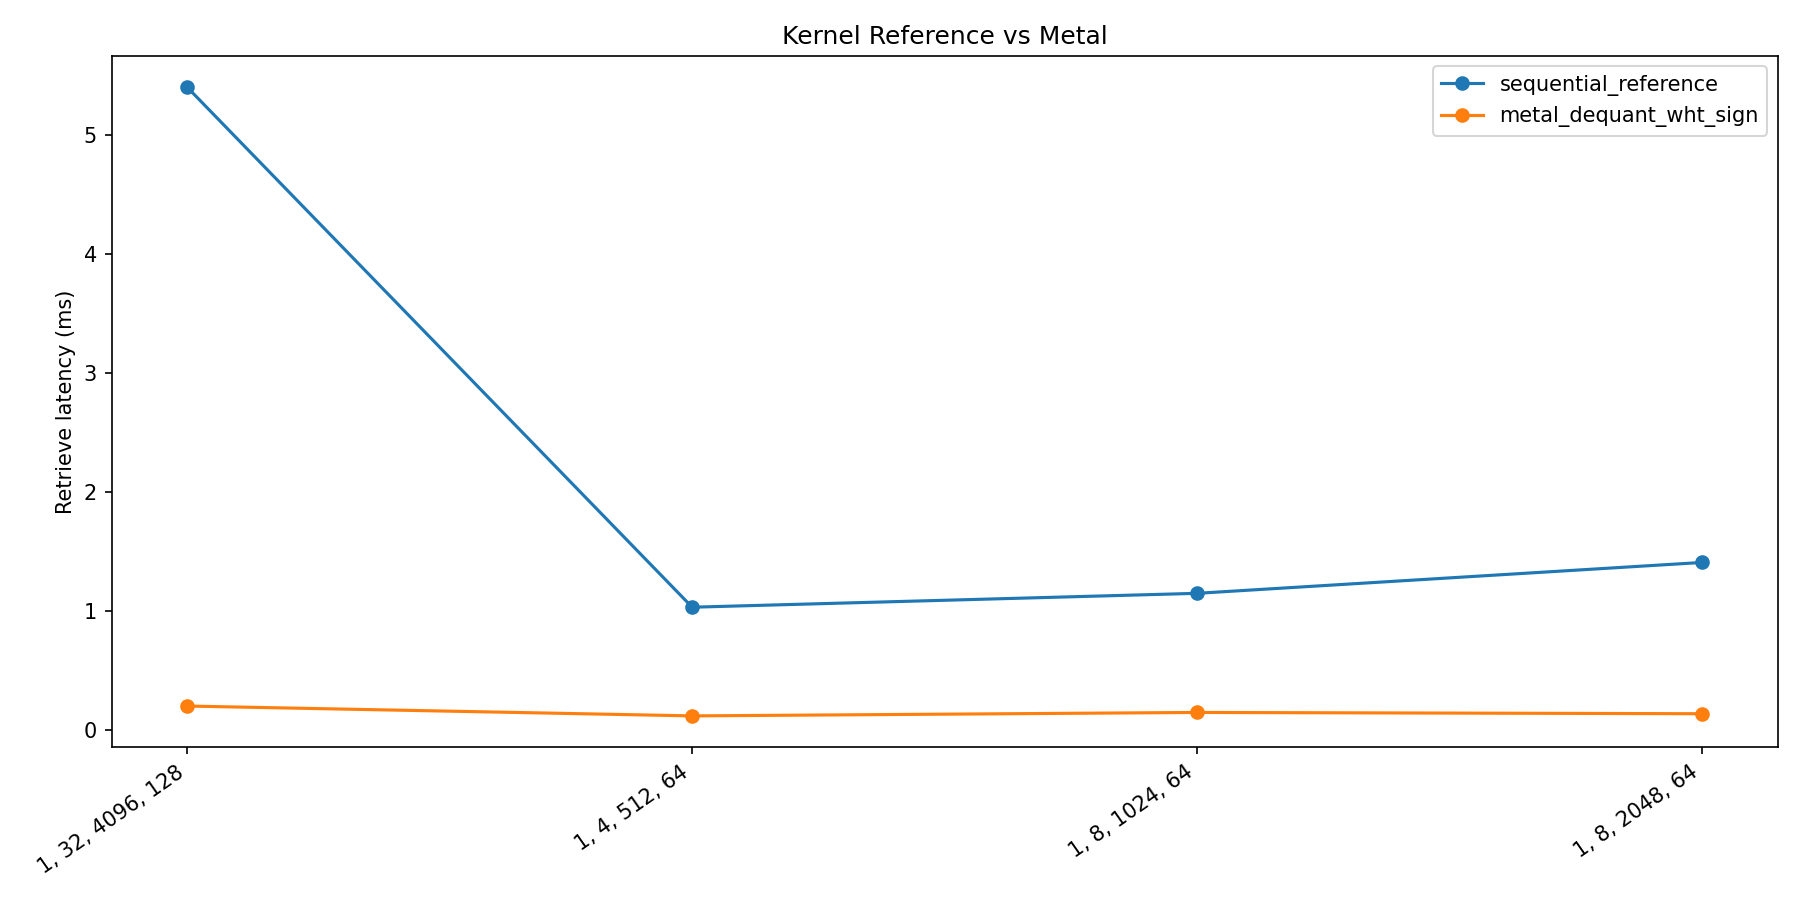
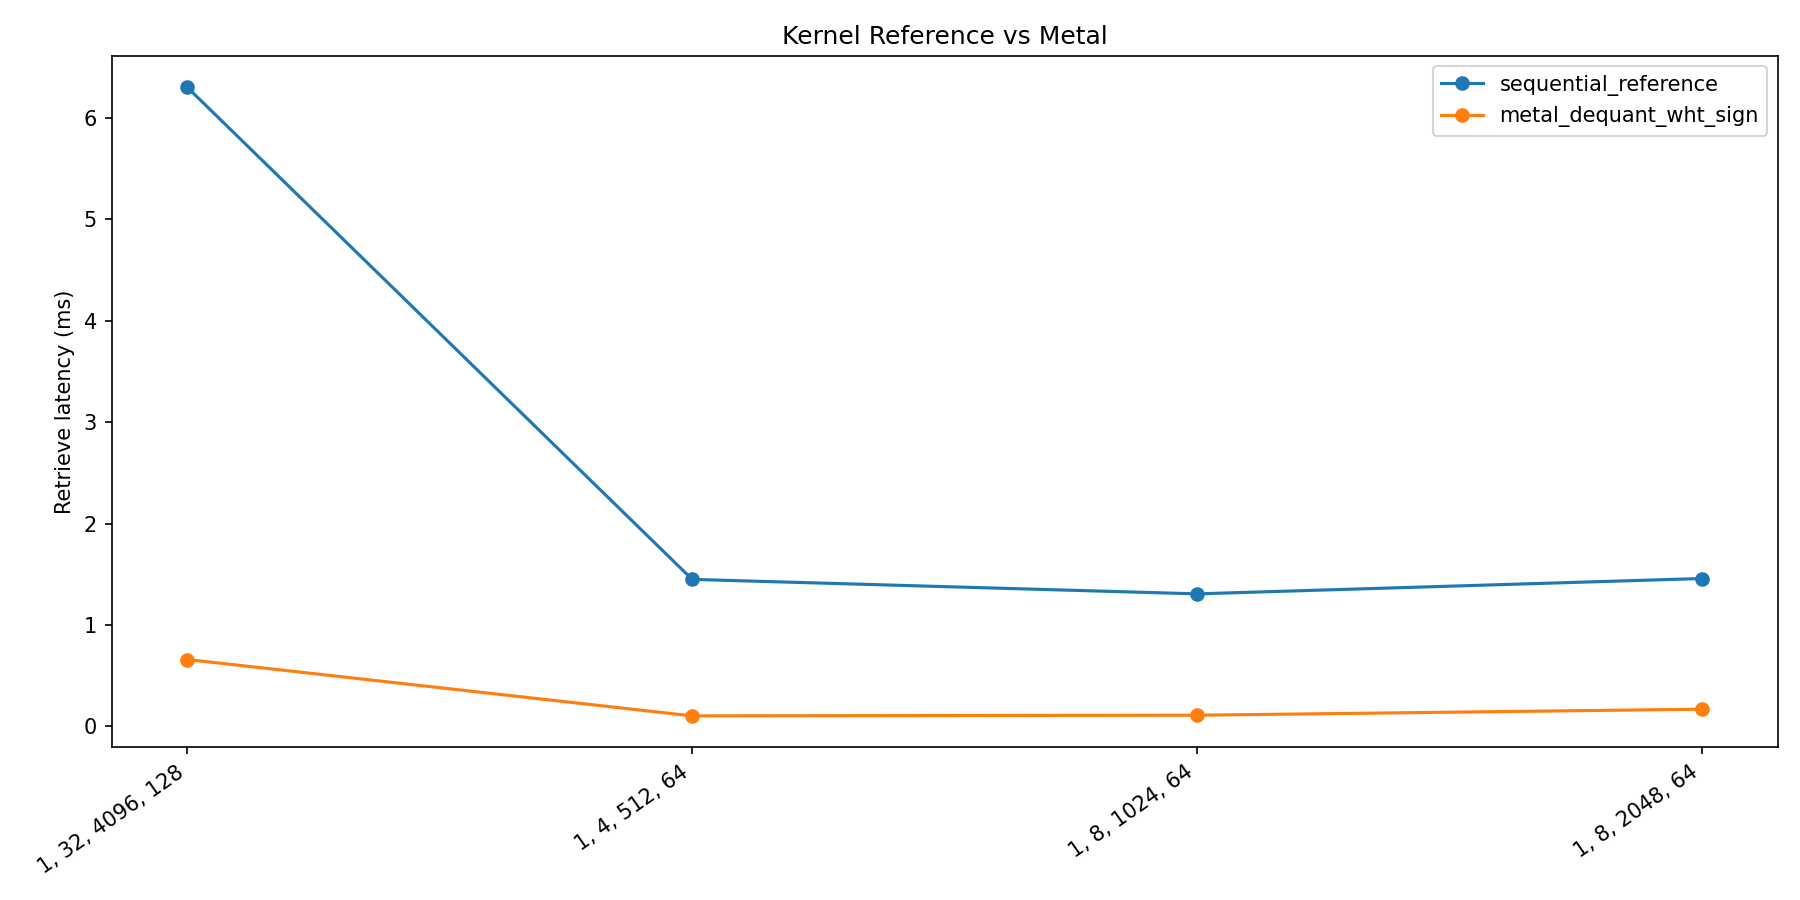
main12: tighten strict metal coverage and benchmark validity semantics

diff --git a/tests/test_kernel_equivalence_mlx.py b/tests/test_kernel_equivalence_mlx.py
@@ -11,6 +11,13 @@ from rfsn_v10.kernels import apply_hash_signs_metal
 from rfsn_v10.kv_manager import RFSNTurboQuantKVManager
 
 
+REQUIRED_SHAPES = [
+    (1, 4, 128, 64),
+    (1, 8, 512, 64),
+    (1, 8, 1024, 128),
+]
+
+
 def cosine_similarity(a: mx.array, b: mx.array) -> float:
     a_f = a.flatten().astype(mx.float32)
     b_f = b.flatten().astype(mx.float32)
@@ -39,8 +46,14 @@ def test_metal_hash_sign_is_self_inverse() -> None:
         (True, True, "metal_dequant_wht_sign"),
     ],
 )
-def test_metal_reconstruction_matches_reference(use_wht, use_signs, expected_label, tmp_path):
-    shape = (1, 8, 512, 64)
[email redacted]("shape", REQUIRED_SHAPES)
+def test_metal_reconstruction_matches_reference(
+    use_wht,
+    use_signs,
+    expected_label,
+    shape,
+    tmp_path,
+):
     manager = RFSNTurboQuantKVManager(
         cache_dir=str(tmp_path),
         k_bits=8,
@@ -86,36 +99,78 @@ def test_metal_reconstruction_matches_reference(use_wht, use_signs, expected_lab
     mx.eval(metal_k, metal_v, ref_k, ref_v)
     assert cosine_similarity(metal_k, ref_k) > 0.999
     assert cosine_similarity(metal_v, ref_v) > 0.999
+    assert mx.max(mx.abs(metal_k - ref_k)).item() < 1e-3
+    assert mx.max(mx.abs(metal_v - ref_v)).item() < 1e-3
+    assert metal_k.shape == ref_k.shape
+    assert metal_v.shape == ref_v.shape
+    assert metal_k.dtype == mx.float32
+    assert metal_v.dtype == mx.float32
 
 
-def test_strict_metal_uses_metal_route(tmp_path):
-    cases = [
[email redacted](
+    ("use_wht", "use_signs", "expected_label"),
+    [
         (False, False, "metal_dequant"),
         (True, False, "metal_dequant_wht"),
         (False, True, "metal_dequant_sign"),
         (True, True, "metal_dequant_wht_sign"),
-    ]
-
+    ],
+)
[email redacted]("shape", REQUIRED_SHAPES)
+def test_strict_metal_uses_metal_route(
+    use_wht,
+    use_signs,
+    expected_label,
+    shape,
+    tmp_path,
+):
     mx.random.seed(1)
-    shape = (1, 4, 128, 64)
     keys = mx.random.normal(shape)
     values = mx.random.normal(shape)
 
-    for idx, (use_wht, use_signs, expected_label) in enumerate(cases):
-        manager = RFSNTurboQuantKVManager(
-            cache_dir=str(tmp_path / f"strict_{idx}"),
-            k_bits=8,
-            v_bits=3,
-            use_wht=use_wht,
-            use_incoherent_signs=use_signs,
-            prefer_metal_kernels=True,
-            strict_metal=True,
-        )
+    manager = RFSNTurboQuantKVManager(
+        cache_dir=str(tmp_path / "strict"),
+        k_bits=8,
+        v_bits=3,
+        use_wht=use_wht,
+        use_incoherent_signs=use_signs,
+        prefer_metal_kernels=True,
+        strict_metal=True,
+    )
 
-        key = f"strict_metal_{idx}"
-        manager.store(key, keys, values, token_count=shape[2])
-        k_rec, v_rec = manager.retrieve(key, out_dtype=mx.float32)
-        mx.eval(k_rec, v_rec)
+    key = f"strict_metal_{shape}_{use_wht}_{use_signs}"
+    manager.store(key, keys, values, token_count=shape[2])
+    k_rec, v_rec = manager.retrieve(key, out_dtype=mx.float32)
 
-        assert manager.last_reconstruction_kernel == expected_label
-        assert manager.last_reconstruction_kernel != "metal_failed_fallback_reference"
+    cache = manager.active_caches[key]
+    ref_k = manager._reconstruct_packed_dequant_wht(
+        packed=cache.k_packed,
+        scales=cache.k_scales,
+        n_values=cache.k_n_values,
+        shape=cache.shape,
+        bits=cache.k_bits,
+        seed=cache.seed,
+        use_wht=cache.use_wht,
+        use_incoherent_signs=cache.use_incoherent_signs,
+        out_dtype=mx.float32,
+    )
+    ref_v = manager._reconstruct_packed_dequant_wht(
+        packed=cache.v_packed,
+        scales=cache.v_scales,
+        n_values=cache.v_n_values,
+        shape=cache.shape,
+        bits=cache.v_bits,
+        seed=cache.seed,
+        use_wht=cache.use_wht,
+        use_incoherent_signs=cache.use_incoherent_signs,
+        out_dtype=mx.float32,
+    )
+    mx.eval(k_rec, v_rec, ref_k, ref_v)
+
+    assert manager.last_reconstruction_kernel == expected_label
+    assert manager.last_reconstruction_kernel != "metal_failed_fallback_reference"
+    assert manager.last_reconstruction_kernel.startswith("metal_")
+    assert cosine_similarity(k_rec, ref_k) > 0.999
+    assert cosine_similarity(v_rec, ref_v) > 0.999
+    assert mx.max(mx.abs(k_rec - ref_k)).item() < 1e-3
+    assert mx.max(mx.abs(v_rec - ref_v)).item() < 1e-3

diff --git a/benchmarks/benchmark_kernel_paths.py b/benchmarks/benchmark_kernel_paths.py
@@ -171,7 +171,7 @@ def main() -> None:
     parser = argparse.ArgumentParser(description="Benchmark kernel reconstruction paths")
     parser.add_argument(
         "--out",
-        default="artifacts/proof/main11/kernel_benchmark.json",
+        default="artifacts/proof/main12/kernel_benchmark.json",
         help="Output JSON path",
     )
     parser.add_argument("--iterations", type=int, default=5)
@@ -201,7 +201,7 @@ def main() -> None:
 
     for row in runs:
         ref_latency = reference_latencies.get(row["shape"], row["latency_ms_p50"])
-        row["speedup_vs_reference"] = (
+        computed_speedup = (
             float(ref_latency) / float(row["latency_ms_p50"])
             if float(row["latency_ms_p50"]) > 0
             else 0.0
@@ -214,8 +214,10 @@ def main() -> None:
                 or float(row["max_abs_diff_vs_reference"]) > 1e-3
             )
             row["status"] = "invalid" if invalid else "valid"
+            row["speedup_vs_reference"] = None if invalid else float(computed_speedup)
         else:
             row["status"] = "valid"
+            row["speedup_vs_reference"] = float(computed_speedup)
 
     payload = {
         "runs": runs,

diff --git a/tests/test_wht_metal_mlx.py b/tests/test_wht_metal_mlx.py
@@ -53,3 +53,9 @@ def test_wht64_metal_rejects_invalid_last_dim() -> None:
     x = mx.random.normal((1, 1, 128, 80)).astype(mx.float32)
     with pytest.raises(ValueError, match="multiple of 64"):
         wht64_metal(x)
+
+
+def test_wht64_metal_rejects_empty_tensor() -> None:
+    x = mx.zeros((0,), dtype=mx.float32)
+    with pytest.raises(ValueError, match="empty"):
+        wht64_metal(x)